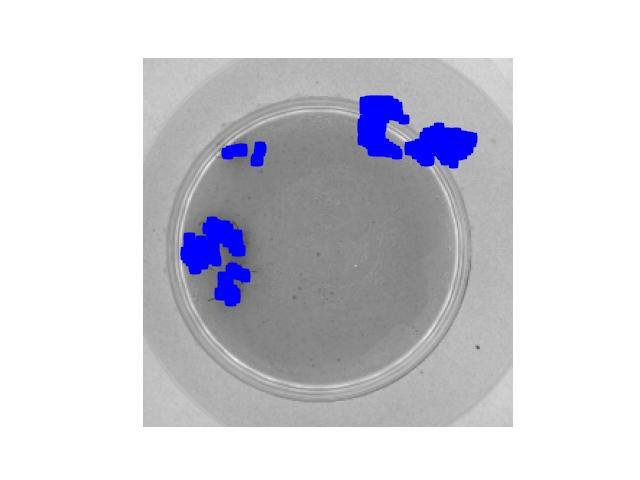
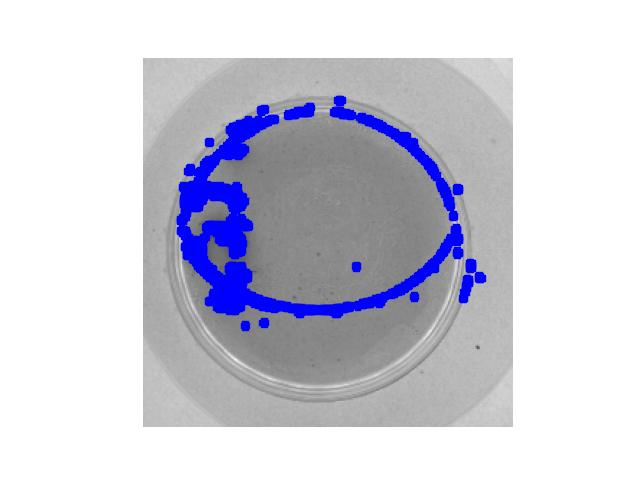
correct subtractdominant, incorrect LKAffine

Changed region(s): [[0.25, 0.1875, 0.7812, 0.6875], [0.5312, 0.5312, 0.5625, 0.5625]]

diff --git a/hw3_student_version/code/SubtractDominantMotion.py b/hw3_student_version/code/SubtractDominantMotion.py
@@ -19,11 +19,12 @@ def SubtractDominantMotion(image1, image2, threshold, num_iters, tolerance):
     mask = np.ones(image1.shape, dtype=bool)
 
     # calculate M (affine transformation matrix)
+    '''
     M = LucasKanadeAffine(image1, image2, threshold, num_iters)
-
-    # spline image1
+    
+    # spline 
     image1_spline = RectBivariateSpline(np.arange(image1.shape[0]), np.arange(image1.shape[1]), image1)
-
+    image2_spline = RectBivariateSpline(np.arange(image2.shape[0]), np.arange(image2.shape[1]), image2)
     # create 3D matrix of homogenous coordinates in image1
     rows = np.arange(image1.shape[0])
     cols = np.arange(image1.shape[1])
@@ -38,32 +39,75 @@ def SubtractDominantMotion(image1, image2, threshold, num_iters, tolerance):
     warped_grid = warped_coords[:2, :].T.reshape(len(rows), len(cols), 2)
 
     # retrieve warped pixel values
-    image1_w = image1_spline.ev(warped_grid[:, :, 1], warped_grid[:, :, 0])
+    image1_w = image2_spline.ev(warped_grid[:, :, 1], warped_grid[:, :, 0])
 
     # retrieve coordinates in warped image that exceed image boundaries
     x_thresh = len(rows)
     y_thresh = len(cols)
-    i = np.where((warped_coords[0] >= x_thresh) | (warped_coords[1] >= y_thresh) | (warped_coords[0] < 0) | (warped_coords[1] < 0))[0]
-    not_valid_coords = warped_coords[:, i]
+    i = np.where((warped_coords[0] <= x_thresh) & (warped_coords[0] >= 0) & (warped_coords[1] >= 0) | (warped_coords[1] <= y_thresh))[0]
+    valid_coords = warped_coords[:, i]
 
     # find matching not valid coords in image1
-    not_valid_coords_img1 = (np.linalg.inv(M) @ not_valid_coords).T[:, :-1].astype('int')
+    valid_coords_img1 = (np.linalg.inv(M) @ valid_coords).T[:, :-1]
 
-    # set not valid coords in warped image1 to 0
-    #image1_w[not_valid_coords_img1[:, 0], not_valid_coords_img1[:, 1]] = 0
-   
-    # calculate absolute difference between warped img and image at time t+1
-    abs_diff = np.abs(image2 - image1_w)
-    #abs_diff[not_valid_coords_img1[:, 1], not_valid_coords_img1[:, 0]] = 0
+    # grid of valid coords
+    valid_coords_grid = valid_coords_img1.T.reshape(image1.shape[0], image1.shape[1], 2)
 
-    # calculate locations where difference exceeds threshold
-    mask = abs_diff > tolerance
+    # retrieve valid coordinate values in image1
+    image1_valid = image1_spline.ev(valid_coords_grid[:, :, 1], valid_coords_grid[:, :, 0])
 
-    # erode mask (shrink bright regions and enlarge dark regions)
+    # warp new image 1
+    image1_w = affine_transform(image1_valid, np.linalg.norm(M))
+
+    # find absolute difference
+    diff = np.abs(image2 - image1_w)
+
+    # mask the difference (place 1 where diff > tolerance)
+    mask = diff > tolerance
+
     structuring_element = np.ones((3, 3))
-    mask = binary_erosion(mask, structuring_element)
 
-    # dilate mask (enlarge bright regions and shrink dark regions)
-    mask = binary_dilation(mask, structuring_element)
+    # erode mask (shrink dark regions and enlarge light regions)
+    mask = binary_erosion(mask)
 
-    return mask.astype(int)
+    # dilate mask (enlarge dark regions and shrink light regions)
+    mask = binary_dilation(mask)
+
+    return mask
+    '''
+
+    M = LucasKanadeAffine(image1, image2, threshold, num_iters)
+    M = M[:2,:]
+    M = np.concatenate([M, np.array([0,0,1])[np.newaxis,:]])
+
+    # Eliminate the invalid coordinates
+    It_interp = RectBivariateSpline(range(image1.shape[0]), range(image1.shape[1]), image1)
+    h,w = image1.shape
+    x_linspace = np.arange(w)
+    y_linspace = np.arange(h)
+    y, x = np.meshgrid(y_linspace, x_linspace)
+
+    original_coordinate = np.stack([x, y, np.ones_like(x)], axis=-1)
+    # print("M {} original_coordinate {} y {}".format(M.shape, original_coordinate.shape, y.shape)) # (320, 240, 3, 3)
+    tiled_M = np.tile(np.linalg.inv(M), (y.shape[0], y.shape[1], 1, 1)) # tiled transformation matrix for each point
+    # print("tiled_M", tiled_M.shape) # (320, 240, 3, 3)
+    warpped_coordinates = tiled_M @ original_coordinate[:,:,:,np.newaxis]
+    warpped_coordinates = np.squeeze(warpped_coordinates)
+    # convert to x-y coordinate
+    warpped_coordinates[:,:,0] /= warpped_coordinates[:,:,2]
+    warpped_coordinates[:,:,1] /= warpped_coordinates[:,:,2]
+    x_warp = warpped_coordinates[:,:,0]
+    y_warp = warpped_coordinates[:,:,1]
+    valid_warp = (warpped_coordinates[:,:,0]>=0) & (warpped_coordinates[:,:,0]<image1.shape[1]) & (warpped_coordinates[:,:,1]>=0)& (warpped_coordinates[:,:,1]<image1.shape[0])
+
+    It_patch = It_interp.ev(y_warp,x_warp)
+    It1_patch = image2[y, x]
+    err_img = np.abs(It1_patch - It_patch)
+    err_img[valid_warp==False] = 0
+
+    mask[y, x] = (err_img > tolerance)
+
+    # mask = binary_erosion(mask)
+    mask = binary_dilation(mask)
+
+    return mask

diff --git a/hw3_student_version/code/LucasKanadeAffine.py b/hw3_student_version/code/LucasKanadeAffine.py
@@ -16,18 +16,22 @@ def LucasKanadeAffine(It, It1, threshold, num_iters):
 
     # spline template and image
     it_spline = RectBivariateSpline(np.arange(It.shape[0]), np.arange(It.shape[1]), It)
-    transform_spline = RectBivariateSpline(np.arange(It1.shape[0]), np.arange(It1.shape[1]), It1)
+    It1_spline = RectBivariateSpline(np.arange(It1.shape[0]), np.arange(It1.shape[1]), It1)
 
-    # create coords matrix of current image
-    rows = np.arange(It1.shape[0])
-    cols = np.arange(It1.shape[1])
+    # get all possible homogenous coordinate positions of rectangle in template
+    rows = np.arange(It.shape[0])
+    cols = np.arange(It.shape[1])
     x_coords = np.tile(rows, len(cols))
     y_coords = np.repeat(cols, len(rows))
-    homogenous_coords = np.array([x_coords, y_coords, np.ones(rows.shape[0] * cols.shape[0])])
+    homogenous_rect_coords = np.array([x_coords, y_coords, np.ones(rows.shape[0] * cols.shape[0])])
 
-    for iter in range(int(num_iters)):
-        # calculate warped coordinates
-        warped_coords = M @ homogenous_coords
+    for i in range(int(num_iters)):
+        # get warped coordinates 
+        transform_matrix = np.array(([1.0 + p[0], p[1], p[2]], 
+                                     [p[3], 1.0 + p[4], p[5]], 
+                                     [0, 0, 1.0]))
+        homogenous_warped_coords = transform_matrix @ homogenous_rect_coords
+        warped_coords = homogenous_warped_coords[:-1]
 
         # remove warped coordinates outside of range of template
         x_threshold, y_threshold = It.shape[0] - 1, It.shape[1] - 1
@@ -41,57 +45,48 @@ def LucasKanadeAffine(It, It1, threshold, num_iters):
         warped_coords = np.delete(warped_coords, i, axis=1)
 
         # get pixel values at warped image
-        I_w = transform_spline.ev(warped_coords[1, :], warped_coords[0, :])
+        I_w = It1_spline.ev(warped_coords[1, :], warped_coords[0, :])
 
         # get matching warped coordinates in template
         homogenous_warped_coords = np.vstack((warped_coords, np.ones(warped_coords.shape[1])))
-        template_coords = np.linalg.inv(np.vstack((M, np.array([0, 0, 1])))) @ homogenous_warped_coords
+        template_coords = np.linalg.inv(transform_matrix) @ homogenous_warped_coords
 
         # retrieve values of matching coords in template
         T = it_spline.ev(template_coords[1, :], template_coords[0, :])
 
-        # compute error image
-        error = T - I_w
+        # compute error image (m x 1)
+        error_img = T - I_w
 
-        # compute Image gradient (of warped image)
-        I_dx = np.array([transform_spline.ev(warped_coords[1, :], warped_coords[0, :], dy=1)]).T
-        I_dy = np.array([transform_spline.ev(warped_coords[1, :], warped_coords[0, :], dx=1)]).T
-        image_gradient = np.hstack((I_dx, I_dy))
+        # compute image gradient of warped image
+        I_y = np.array([It1_spline.ev(warped_coords[1, :], warped_coords[0, :], dx=1)]).T
+        I_x = np.array([It1_spline.ev(warped_coords[1, :], warped_coords[0, :], dy=1)]).T
+        image_gradient = np.hstack((I_x, I_y))
+    
+        # m x 2
+        image_gradient = np.hstack((I_x, I_y))
 
         # compute dW_dp for all points in the rectangle
-        dW_dp_all = []
+        j_image_gradient = []
     
         for j in range(warped_coords.shape[1]):
             x = warped_coords[0, j]
             y = warped_coords[1, j]
             dW_dp_i = np.array(([x, 0, y, 0, 1, 0], 
                                 [0, x, 0, y, 0, 1]))
-            dW_dp_all.append(dW_dp_i)
-        # m x 2 x 6 
-        dW_dp = np.array(dW_dp_all)
-        
-        # compute J for all points in warped coordinates
-        J_all = []
+            img_grad_i = image_gradient[j, :]
+            j_image_gradient.append(img_grad_i @ dW_dp_i)
+        # m x 6 
+        j_image_gradient = np.array(j_image_gradient)
 
-        for m in range(warped_coords.shape[1]):
-            J_i = image_gradient[m, :] @ dW_dp[m, :, :]
-            J_all.append(J_i)
-
-        # m x 6
-        J = np.array(J_all)
+        # 6 x 6
+        H = j_image_gradient.T @ j_image_gradient
+        delta_p = np.linalg.inv(H) @ j_image_gradient.T @ error_img
         
-        #J = np.einsum('ij,ijk->ik', image_gradient, dW_dp)
-        # compute delta p
-        delta_p = np.linalg.lstsq(J, error, rcond=-1)[0]
         if np.linalg.norm(delta_p) <= threshold:
            break
-        
+           
         # update p
         p += delta_p
-
-        # update M
-        M = np.array(([1.0 + p[0], p[1], p[2]], 
-                      [p[3], 1.0 + p[4], p[5]]))
     
-    M = np.vstack((M, np.array([0, 0, 1])))
+    M = np.array(([1.0+p[0], p[1], p[2]], [p[3],1.0+p[4], p[5]], [0, 0, 1.0]))
     return M

diff --git a/hw3_student_version/code/LucasKanade.py b/hw3_student_version/code/LucasKanade.py
@@ -45,16 +45,20 @@ def LucasKanade(It, It1, rect, threshold, num_iters, p0=np.zeros(2)):
         error_img = template - I_w
 
         # compute image gradient of warped image
-        I_x = np.array([img_interpolate.ev(warped_coords[1, :], warped_coords[0, :], dy=1)]).T
         I_y = np.array([img_interpolate.ev(warped_coords[1, :], warped_coords[0, :], dx=1)]).T
+        I_x = np.array([img_interpolate.ev(warped_coords[1, :], warped_coords[0, :], dy=1)]).T
         image_gradient = np.hstack((I_x, I_y))
         
         # compute jacobian * image gradient
         J = np.eye(2) # only two warp parameters: p1, p2 --> W(x ; p) : [[x + p1], [y + p2]]
         J_gradient_img = image_gradient @ J
 
+        H = J_gradient_img.T @ J_gradient_img
+        '''
         # compute delta p
         delta_p = np.linalg.lstsq(J_gradient_img, error_img, rcond=-1)[0]
+        '''
+        delta_p = np.linalg.inv(H) @ J_gradient_img.T @ error_img
         if np.linalg.norm(delta_p) <= threshold:
             break
         

diff --git a/hw3_student_version/code/testAntSequence.py b/hw3_student_version/code/testAntSequence.py
@@ -47,7 +47,7 @@ for frame in range(num_frames - 1):
     plt.imshow(It1, cmap='gray')
 
     # report tracking performance
-    if frame != 0 and ((frame == 1) or (frame % 30 == 0)):
+    if frame != 0 and ((frame == 1) or ((frame + 1) % 30 == 0)):
         img_name = f'frame_ant_{frame}.jpg'
         plt.savefig(img_name)
     plt.pause(0.01)
